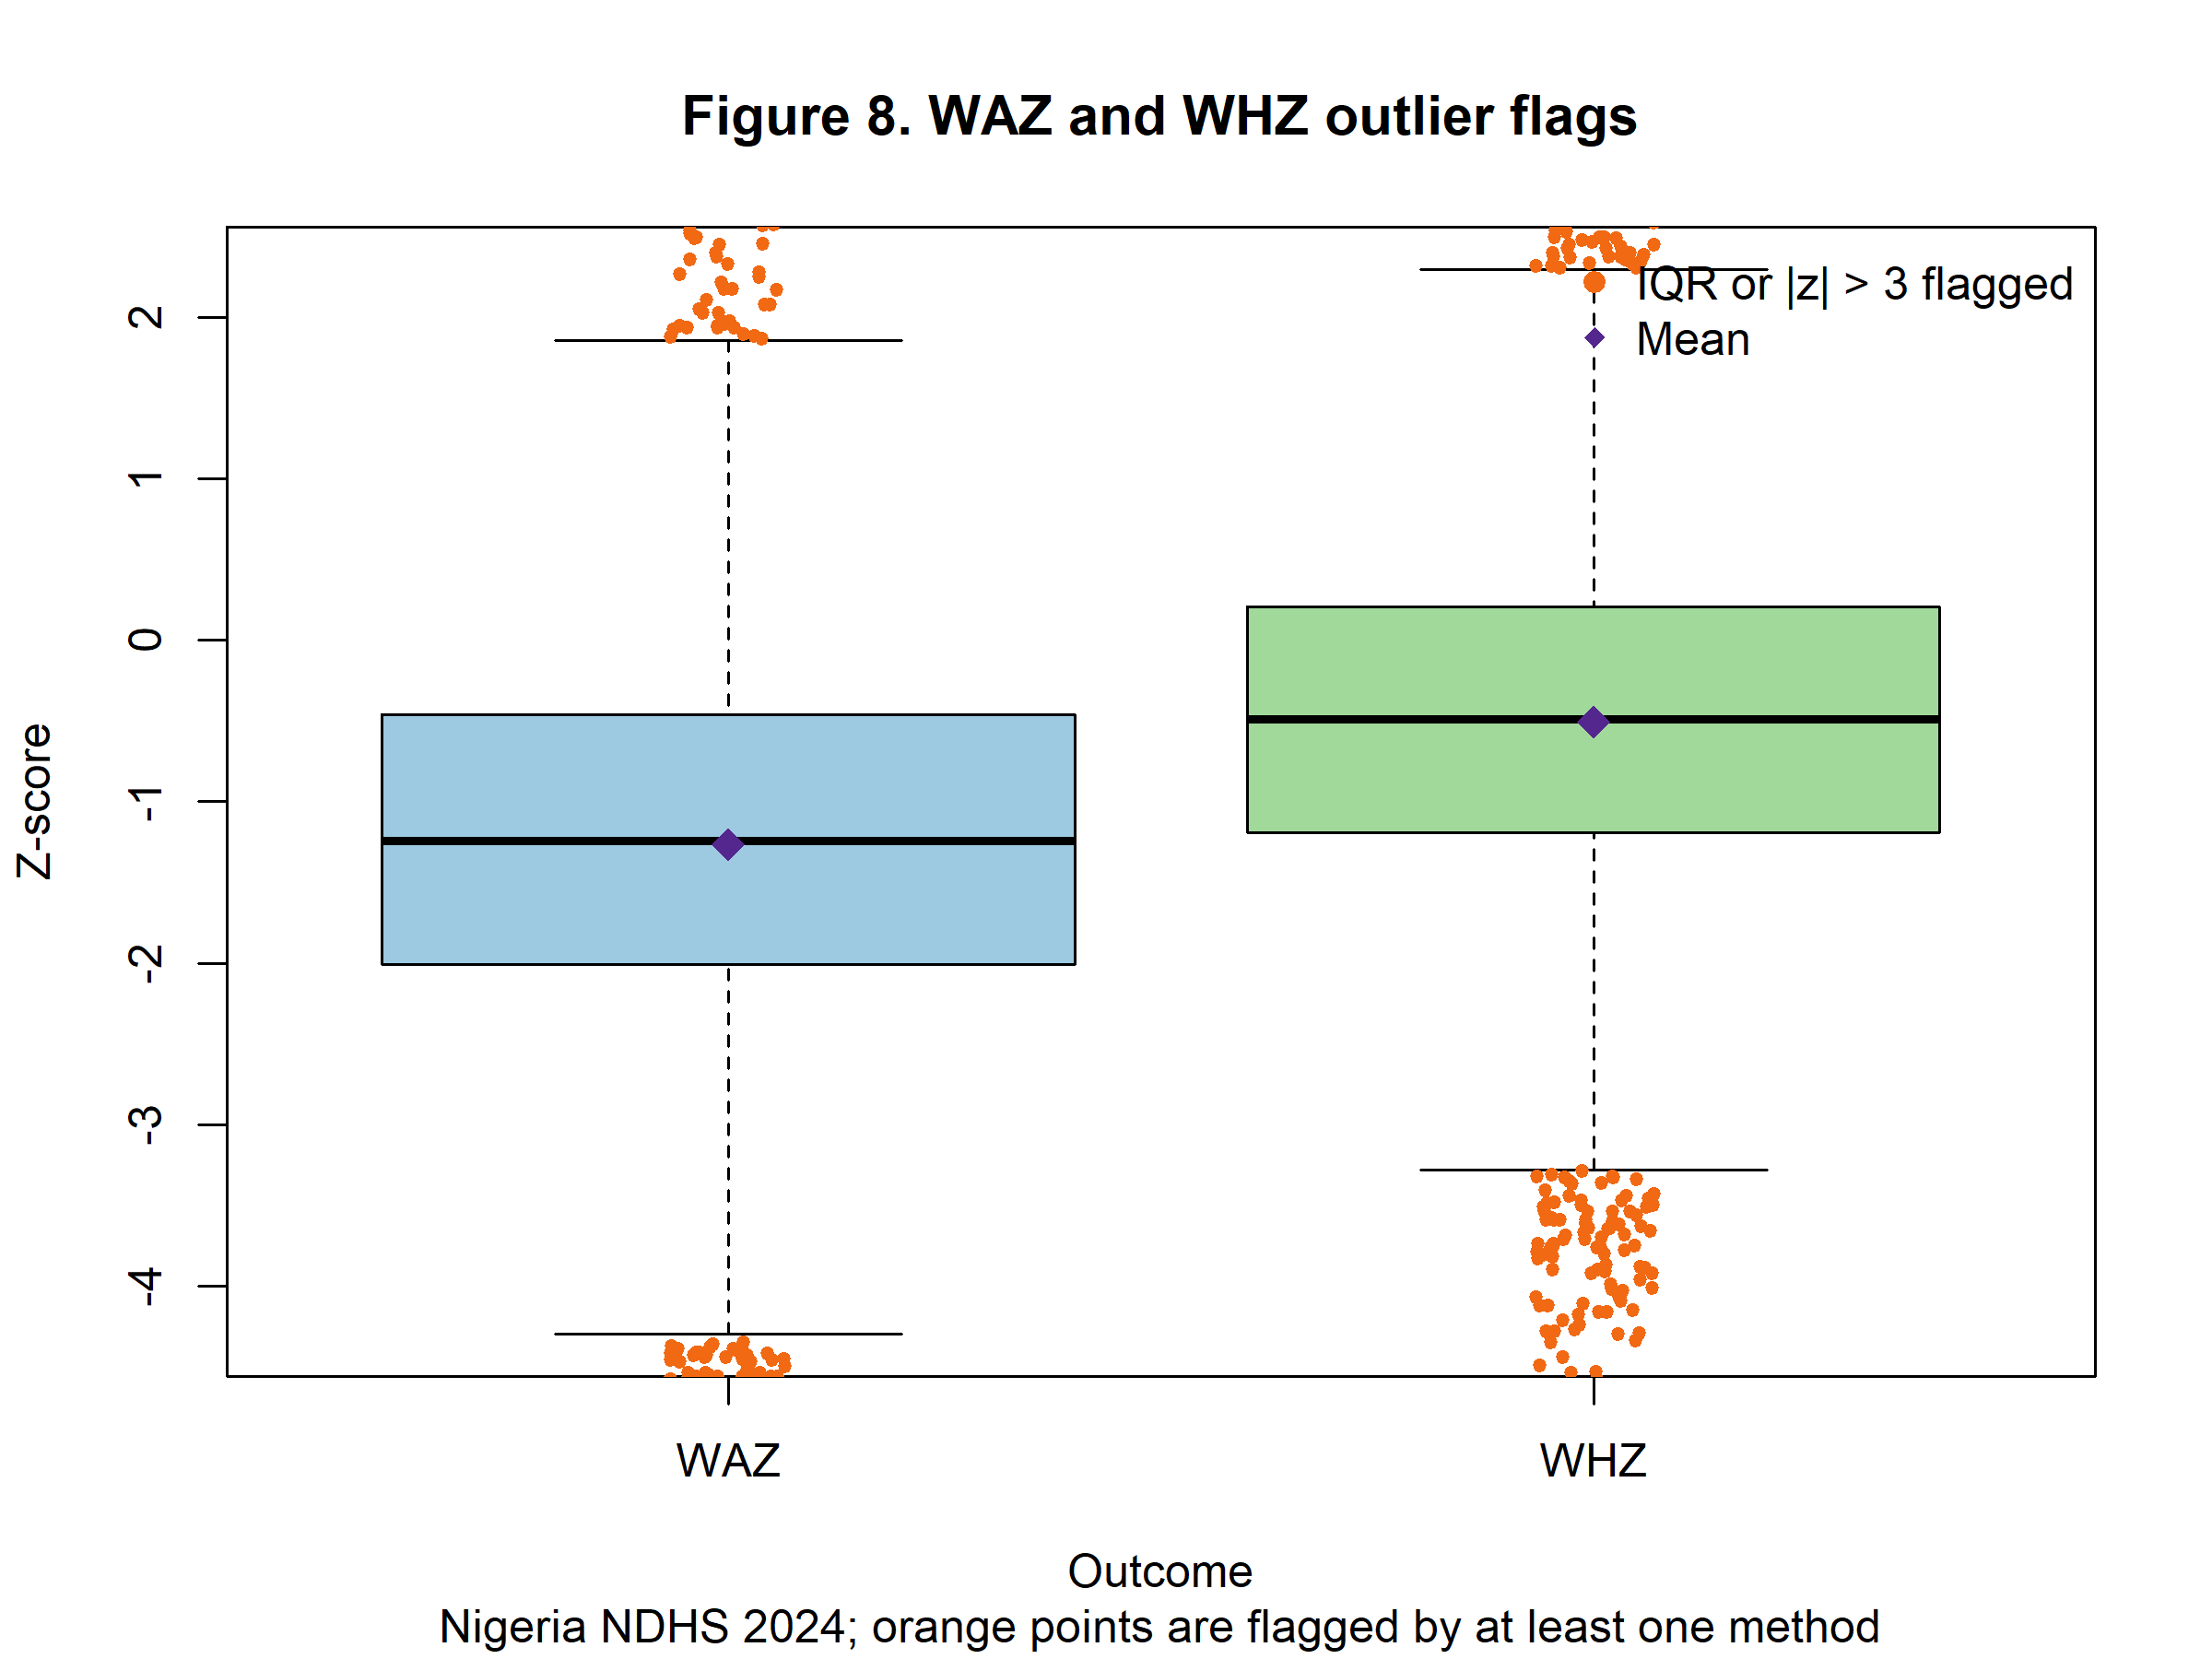
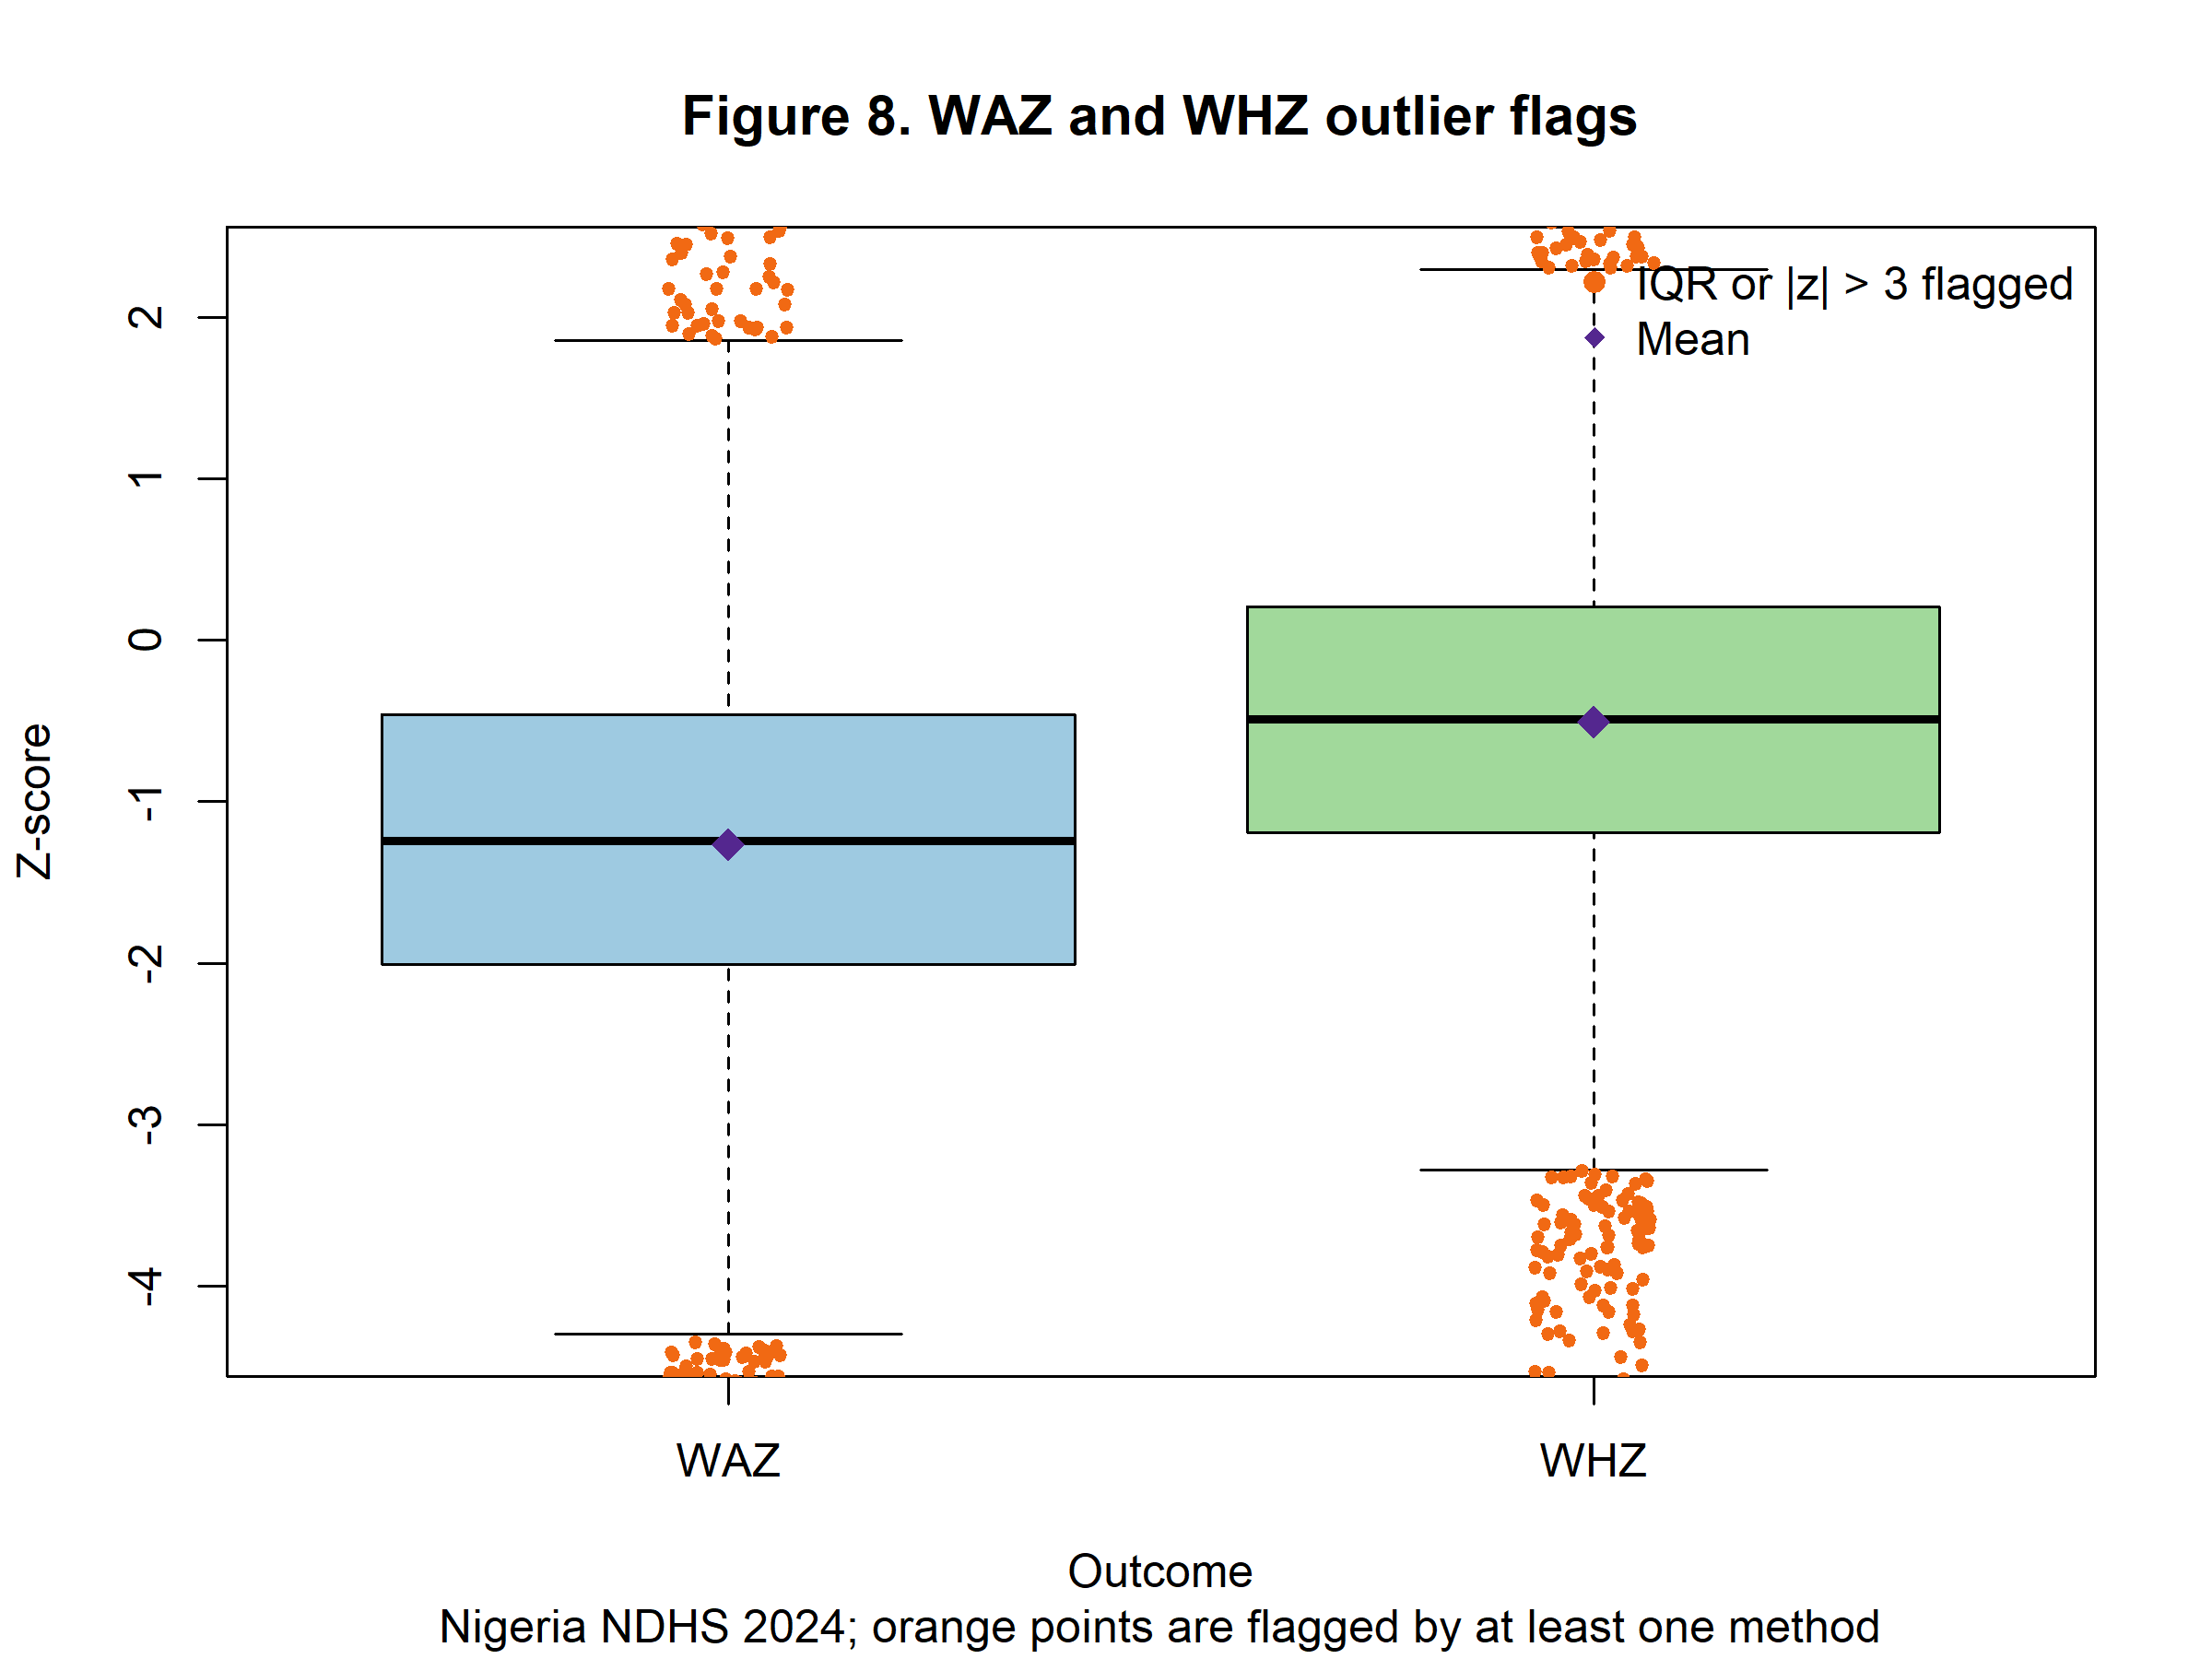
chore(repo): add portfolio metadata, CI, citation, and agent notes

diff --git a/README.md b/README.md
@@ -1,33 +1,39 @@
-# ADA MicroMasters ML, AI & Research Methods Portfolio
+# ADA MicroMasters ML Research Methods
 
-This repository is the permanent research portfolio for Basil Oforbuike Emeokoro's 12-week ADA Global Academy MicroMasters programme in Data Science, Artificial Intelligence, Machine Learning, and Research Methods.
+[![License: MIT](https://img.shields.io/github/license/basil-emeokoro/ADA-MicroMasters-ML-Research-Methods)](LICENSE)
+![Last Commit](https://img.shields.io/github/last-commit/basil-emeokoro/ADA-MicroMasters-ML-Research-Methods)
+![Repository Size](https://img.shields.io/github/repo-size/basil-emeokoro/ADA-MicroMasters-ML-Research-Methods)
+![Main Language](https://img.shields.io/github/languages/top/basil-emeokoro/ADA-MicroMasters-ML-Research-Methods)
+[![R Check](https://github.com/basil-emeokoro/ADA-MicroMasters-ML-Research-Methods/actions/workflows/r-check.yml/badge.svg)](https://github.com/basil-emeokoro/ADA-MicroMasters-ML-Research-Methods/actions/workflows/r-check.yml)
+
+This repository is Basil Oforbuike Emeokoro's permanent research portfolio for the 12-week ADA Global Academy MicroMasters programme in Data Science, Artificial Intelligence, Machine Learning, and Research Methods.
 
 The objective extends beyond completing weekly assignments. This monorepo documents reproducible analyses, statistical modelling, explainable AI, end-to-end data science workflows, scientific reporting, and clean software engineering practice.
 
+## Portfolio Index
+
+| Week | Topic | Status | Main Output | Code | Report |
+| --- | --- | --- | --- | --- | --- |
+| Week 1 | Exploratory data analysis of Nigeria DHS child undernutrition | Complete | WAZ/WHZ EDA tables, figures, and PDF report | [R script](week01-eda/assignment/Sprint01_BasilEmeokoro.R) | [PDF](week01-eda/assignment/Sprint01_BasilEmeokoro.pdf) |
+| Week 2 | To be added | Planned | TBD | TBD | TBD |
+| Week 3 | To be added | Planned | TBD | TBD | TBD |
+| Week 4 | To be added | Planned | TBD | TBD | TBD |
+| Week 5 | To be added | Planned | TBD | TBD | TBD |
+| Week 6 | To be added | Planned | TBD | TBD | TBD |
+| Week 7 | To be added | Planned | TBD | TBD | TBD |
+| Week 8 | To be added | Planned | TBD | TBD | TBD |
+| Week 9 | To be added | Planned | TBD | TBD | TBD |
+| Week 10 | To be added | Planned | TBD | TBD | TBD |
+| Week 11 | To be added | Planned | TBD | TBD | TBD |
+| Week 12 | To be added | Planned | TBD | TBD | TBD |
+
 ## Repository Objectives
 
-- Build research-quality data science projects across the 12-week programme.
+- Build research-quality data science projects across the full 12-week programme.
 - Apply statistical and machine learning techniques to real-world datasets.
-- Keep analysis code, reports, figures, tables, and notes reproducible.
+- Preserve reproducible scripts, reports, figures, tables, and notes.
 - Practice transparent research documentation and version control.
-- Develop a portfolio suitable for academic, research, and industry opportunities.
-
-## Weekly Roadmap
-
-| Week | Focus | Status |
-| --- | --- | --- |
-| Week 1 | Exploratory data analysis of child undernutrition using Nigeria DHS 2024 | Complete |
-| Week 2 | To be added | Planned |
-| Week 3 | To be added | Planned |
-| Week 4 | To be added | Planned |
-| Week 5 | To be added | Planned |
-| Week 6 | To be added | Planned |
-| Week 7 | To be added | Planned |
-| Week 8 | To be added | Planned |
-| Week 9 | To be added | Planned |
-| Week 10 | To be added | Planned |
-| Week 11 | To be added | Planned |
-| Week 12 | To be added | Planned |
+- Maintain a portfolio suitable for academic, research, and industry review.
 
 ## Topics Covered
 
@@ -48,30 +54,39 @@ The objective extends beyond completing weekly assignments. This monorepo docume
 
 ```text
 .
-├── README.md
-├── CHANGELOG.md
-├── .gitignore
-├── week01-eda/
-│   ├── assignment/
-│   ├── resources/
-│   └── notes/
-├── week02/ ... week12/
-├── shared/
-└── docs/
+|-- README.md
+|-- CHANGELOG.md
+|-- CITATION.cff
+|-- LICENSE
+|-- PROJECT_NOTES.md
+|-- AGENT_NOTES.md
+|-- .github/
+|   `-- workflows/
+|       `-- r-check.yml
+|-- week01-eda/
+|   |-- assignment/
+|   |-- resources/
+|   `-- notes/
+|-- week02/ ... week12/
+|-- shared/
+`-- docs/
 ```
 
 Each weekly folder is intended to contain source code, reports, visualizations, documentation, selected resources, and reproducible workflows. Datasets are included only where redistribution is permitted.
 
 ## Technologies Used
 
-- R, RStudio, base R, tidyverse-style workflows where packages are available.
+- R and RStudio for statistical analysis, data cleaning, visualization, and report generation.
 - Python, Jupyter, pandas, NumPy, Matplotlib, Seaborn, and scikit-learn for future weeks.
+- GitHub Actions for lightweight reproducibility checks.
 - Git and GitHub for version control and portfolio publication.
-- PDF, CSV, and image outputs for reproducible reporting.
+- PDF, CSV, and image outputs for research reporting.
 
 ## Reproducibility Statement
 
 Each week should include the code, report, figures, tables, and notes needed to understand and rerun the work. Large or restricted datasets are not committed unless redistribution is permitted. When a dataset cannot be published, the relevant README explains where it should be placed locally and how the scripts locate it.
+
+For Week 1, the DHS raw CSV is not committed. To reproduce the full analysis locally, place `NGKR8BFL.csv` or `NGKR8BFL (1).csv` in `week01-eda/resources/datasets/` and run the assignment script from `week01-eda/assignment/`.
 
 ## Software Engineering Practices
 
@@ -81,6 +96,7 @@ Each week should include the code, report, figures, tables, and notes needed to 
 - Use clear folder boundaries for weekly work.
 - Record major changes in `CHANGELOG.md`.
 - Prefer modular, readable code and explicit assumptions.
+- Use feature branches for substantial weekly work before merging to `main`.
 
 ## Guiding Principles
 
@@ -101,7 +117,7 @@ Work for each week should be committed as a focused change set using descriptive
 feat(week01): complete exploratory analysis of Nigeria DHS child undernutrition dataset
 ```
 
-Future weeks should be added under `week02` through `week12` without restructuring prior completed weeks.
+Future weeks should be added under `week02` through `week12` without restructuring prior completed weeks. Release tags should mark completed milestones, beginning with `v0.1` for Week 1.
 
 ## Author
 
@@ -109,6 +125,10 @@ Basil Oforbuike Emeokoro
 Psychometrician | Data Scientist | AI & Machine Learning Researcher | Software Developer  
 Email: [email redacted]
 
+## Citation
+
+Citation metadata is available in [CITATION.cff](CITATION.cff). GitHub can use this file to display "Cite this repository".
+
 ## License
 
-No license has been selected yet. All rights are reserved until a license is added.
+This repository is licensed under the [MIT License](LICENSE).

diff --git a/AGENT_NOTES.md b/AGENT_NOTES.md
@@ -1,0 +1,30 @@
+# Agent Notes
+
+This repository is the permanent monorepo for the full 12-week ADA Global Academy MicroMasters portfolio. Future coding agents should read `PROJECT_NOTES.md` before making structural changes.
+
+## Release Tagging
+
+Use annotated tags to mark completed weekly milestones:
+
+```text
+v0.1 = Week 1 completed
+v0.2 = Week 2 completed
+v0.3 = Week 3 completed
+v0.4 = Week 4 completed
+v0.5 = Week 5 completed
+v0.6 = Week 6 completed
+v0.7 = Week 7 completed
+v0.8 = Week 8 completed
+v0.9 = Week 9 completed
+v0.10 = Week 10 completed
+v0.11 = Week 11 completed
+v0.12 = Week 12 completed
+v1.0 = Final 12-week portfolio completed
+```
+
+Example:
+
+```bash
+git tag -a v0.1 -m "Week 1 EDA assignment completed"
+git push origin v0.1
+```

diff --git a/PROJECT_NOTES.md b/PROJECT_NOTES.md
@@ -1,0 +1,16 @@
+# Project Notes for Future Agents
+
+This is a single monorepo for the full 12-week ADA Global Academy MicroMasters programme.
+
+- Do not create separate repositories for individual weeks.
+- Each week must have its own top-level folder: `week01-eda`, `week02`, ..., `week12`.
+- Preserve reproducibility.
+- Do not commit restricted, private, or unnecessarily large raw datasets.
+- Add dataset access/reproduction instructions instead of committing restricted raw data.
+- Keep assignment outputs, reports, figures, tables, and reproducible scripts.
+- Use clear commit messages.
+- Prefer feature branches for each week, such as `feature/week02-assignment`.
+- Before merging to `main`, verify scripts run cleanly.
+- Update the root README portfolio index after each week.
+- Update `CHANGELOG.md` after each week.
+- Maintain professional software engineering and research documentation standards.

diff --git a/CHANGELOG.md b/CHANGELOG.md
@@ -4,6 +4,11 @@
 
 - Dataset: Nigeria DHS 2024 Children's Recode dataset (`NGKR8BFL`), used locally for child anthropometry analysis.
 - Objective: exploratory analysis of child undernutrition in Nigeria using WAZ and WHZ, with HAZ included for stunting comparison.
+- Portfolio hardening:
+  - Added MIT license metadata.
+  - Added `CITATION.cff` for GitHub citation support.
+  - Added GitHub Actions workflow to run the Week 1 R script against a synthetic reproducibility fixture.
+  - Added portfolio index, README badges, agent notes, and project notes for future weekly work.
 - Analyses completed:
   - Cleaned WAZ and WHZ by converting DHS invalid codes `9996+` to missing and scaling valid scores by 100.
   - Recoded region, residence, wealth, mother education, father education, breastfeeding, and religion.
@@ -22,6 +27,11 @@
   - `week01-eda/assignment/tables/`
   - `week01-eda/assignment/outputs/`
   - `week01-eda/assignment/README.md`
+  - `.github/workflows/r-check.yml`
+  - `LICENSE`
+  - `CITATION.cff`
+  - `PROJECT_NOTES.md`
+  - `AGENT_NOTES.md`
 
 ## Week 2
 